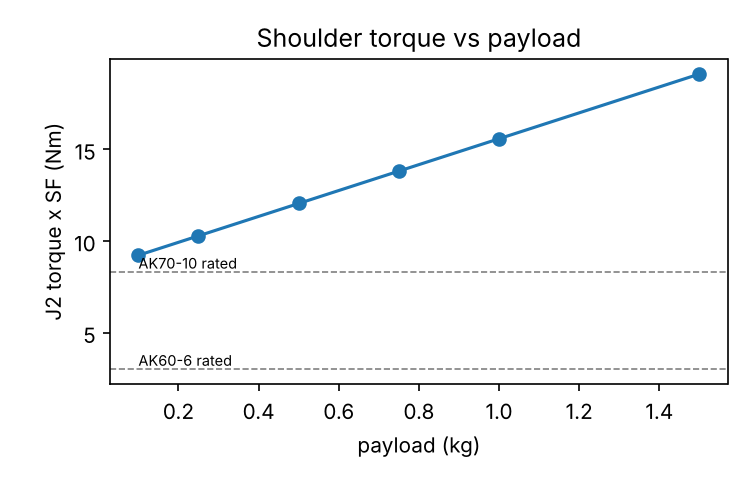
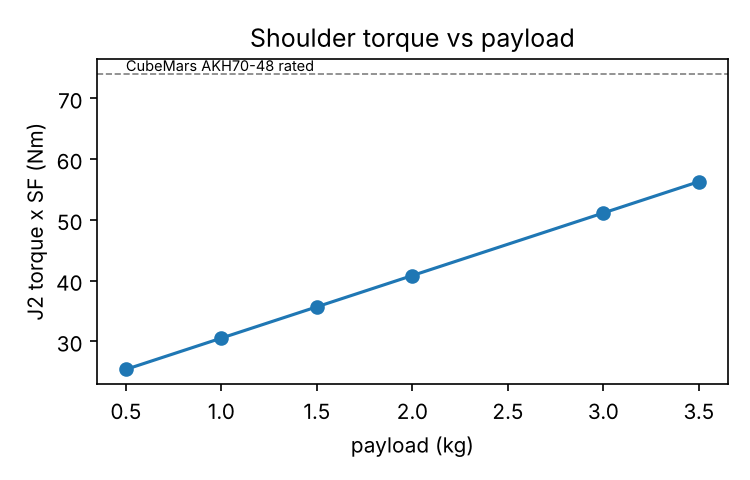
Scale the arm to 700 mm reach (xArm 7 class), 2 kg payload, redo actuator selection

diff --git a/analysis/run_analysis.py b/analysis/run_analysis.py
@@ -11,7 +11,7 @@ import matplotlib.pyplot as plt
 sys.path.insert(0, os.path.dirname(__file__))
 import kinematics as kin
 import dynamics as dyn
-from params import Q_MIN, Q_MAX, build_components
+from params import Q_MIN, Q_MAX, PAYLOAD, build_components
 from actuators import ACTUATORS, ASSUMED_BACKLASH_ARCMIN
 import error_budget as eb
 
@@ -19,12 +19,7 @@ ROOT = os.path.join(os.path.dirname(__file__), "..")
 IMG = os.path.join(ROOT, "docs", "img")
 os.makedirs(IMG, exist_ok=True)
 SF = 1.5
-MAX_BACKLASH = 12   # arcmin, for joints that move the tip (J1-J5)
-# Chosen by hand. J1/J2: the hollow-shaft AKH70-16 (dual 21-bit encoders with one on
-# the output side, big torque margin, 7 mm bore for cables). J3: the much lighter AK45-36 V3,
-# because the elbow actuator's weight loads the shoulder. The wrist is picked by the
-# search below (lightest module that is strong enough and low backlash).
-PREFERRED = {1: "CubeMars AKH70-16", 2: "CubeMars AKH70-16", 3: "CubeMars AK45-36 V3"}
+MAX_BACKLASH = 12   # arcmin, preferred for joints that move the tip (J2-J5)
 ALPHA = 5.0
 JOINTS = ["J1", "J2", "J3", "J4", "J5", "J6"]
 
@@ -48,17 +43,25 @@ def pick(need_rated, need_peak, max_backlash=None):
     return min(ok)[1] if ok else "none in table"
 
 
-def select_actuators(g, payload=0.5, iters=8):
-    """Pick actuators for J2..J5, feed their masses back into the model and
-    repeat until the choice stops changing (heavier motor -> more load)."""
-    choice = dict(PREFERRED)
+def select_actuators(g, payload=PAYLOAD, iters=8):
+    """Pick actuators for J2..J6, feed their masses back into the model and
+    repeat until the choice stops changing (heavier motor -> more load).
+    A part with a known backlash <= MAX_BACKLASH is preferred; if none is strong
+    enough, parts with unknown backlash are allowed (flagged in the results).
+    J1 uses the same part as J2 (its torque is not sized by this model)."""
+    choice = {}
     for _ in range(iters):
         mass = {j: ACTUATORS[c]["mass"] for j, c in choice.items() if c in ACTUATORS}
         comps = build_components(g, payload=payload, act_mass=mass)
         st, sd, _ = dyn.worst_case(n=4000, alpha=ALPHA, comps=comps, seed=7)
-        new = dict(PREFERRED)
-        for j in range(3, 6):    # J4..J6
-            new[j + 1] = pick(st[j] * SF, sd[j] * SF, MAX_BACKLASH if j < 5 else None)
+        new = {}
+        for j in range(1, 6):    # J2..J6
+            lim = MAX_BACKLASH if j < 5 else None
+            c = pick(st[j] * SF, sd[j] * SF, lim)
+            if c == "none in table":
+                c = pick(st[j] * SF, sd[j] * SF, None)
+            new[j + 1] = c
+        new[1] = new[2]
         if new == choice:
             break
         choice = new
@@ -76,7 +79,7 @@ def main():
                "approximate, see `analysis/actuators.py`.\n")
     out.append(f"- Geometry: d1={g.d1*1e3:.0f} mm, a2={g.a2*1e3:.0f} mm, d4={g.d4*1e3:.0f} mm, "
                f"d6={g.d6*1e3:.0f} mm  ->  max reach from shoulder {1e3*(g.a2+g.d4+g.d6):.0f} mm")
-    out.append(f"- Only modules with an integrated driver are considered; J1-J5 need a known backlash of at most {MAX_BACKLASH} arcmin")
+    out.append(f"- Only modules with an integrated driver are considered; a known backlash of at most {MAX_BACKLASH} arcmin is preferred (parts with unknown backlash only if nothing else is strong enough)")
     out.append(f"- Total moving mass in the model: {dyn.total_mass(comps):.2f} kg "
                f"(payload {[c.mass for c in comps if c.name=='payload'][0]} kg)\n")
 
@@ -128,7 +131,7 @@ def main():
     out.append("## Payload sweep (shoulder J2 and elbow J3, static, x SF)\n")
     out.append("| payload (kg) | J2 (Nm) | J3 (Nm) |")
     out.append("|---|---|---|")
-    pays = [0.1, 0.25, 0.5, 0.75, 1.0, 1.5]
+    pays = [0.5, 1.0, 1.5, 2.0, 3.0, 3.5]
     j2s = []
     for pay in pays:
         c = build_components(g, payload=pay, act_mass=act_mass)
@@ -138,9 +141,9 @@ def main():
     out.append("")
     plt.figure(figsize=(5, 3.2))
     plt.plot(pays, j2s, "o-")
-    for name, v in (("AK60-6 rated", 3.0), ("AK70-10 rated", 8.3)):
-        plt.axhline(v, ls="--", lw=0.8, color="gray")
-        plt.text(pays[0], v + 0.2, name, fontsize=7)
+    v = ACTUATORS[choice[2]]["rated"]
+    plt.axhline(v, ls="--", lw=0.8, color="gray")
+    plt.text(pays[0], v + 0.5, choice[2] + " rated", fontsize=7)
     plt.xlabel("payload (kg)"); plt.ylabel("J2 torque x SF (Nm)")
     plt.title("Shoulder torque vs payload"); plt.tight_layout()
     plt.savefig(os.path.join(IMG, "payload_sweep.png"), dpi=150); plt.close()

diff --git a/analysis/params.py b/analysis/params.py
@@ -12,10 +12,10 @@ G = 9.81
 
 @dataclass(frozen=True)
 class Geometry:
-    d1: float = 0.12    # base plate -> shoulder axis (J2)
-    a2: float = 0.20    # shoulder -> elbow (upper arm)
-    d4: float = 0.18    # elbow -> wrist centre (forearm)
-    d6: float = 0.10    # wrist centre -> flange / TCP
+    d1: float = 0.20    # base plate -> shoulder axis (J2)
+    a2: float = 0.29    # shoulder -> elbow (upper arm)
+    d4: float = 0.29    # elbow -> wrist centre (forearm)
+    d6: float = 0.12    # wrist centre -> flange / TCP
 
 
 # Joint limits (q as defined by the DH table in kinematics.py).
@@ -36,8 +36,12 @@ class Component:
 DEFAULT_ACT_MASS = {2: 0.52, 3: 0.29, 4: 0.082, 5: 0.082, 6: 0.057}
 
 
-def build_components(g: Geometry = Geometry(), payload: float = 0.5,
-                     tool: float = 0.2, structure_scale: float = 1.0,
+PAYLOAD = 2.0   # kg carried at the TCP
+TOOL = 0.5      # kg gripper / end effector
+
+
+def build_components(g: Geometry = Geometry(), payload: float = PAYLOAD,
+                     tool: float = TOOL, structure_scale: float = 1.0,
                      act_mass: dict = None) -> list:
     """Mass model. act_mass[j] = mass of the actuator that drives joint j.
     Default actuator masses are datasheet numbers from memory (verify).
@@ -48,10 +52,10 @@ def build_components(g: Geometry = Geometry(), payload: float = 0.5,
         # frame 1 rotates with J1 only: carries the J2 actuator body
         Component("J2 actuator", 1, (0, 0, 0), m[2]),
         # frame 2 (origin at elbow) carries upper arm + J3 actuator body
-        Component("upper arm structure", 2, (-g.a2 / 2, 0, 0), 0.12 * s),
+        Component("upper arm structure", 2, (-g.a2 / 2, 0, 0), 0.45 * s),
         Component("J3 actuator", 2, (0, 0, 0), m[3]),
         # frame 3 (origin at elbow, z along forearm) carries forearm + J4 body
-        Component("forearm structure", 3, (0, 0, g.d4 / 2), 0.10 * s),
+        Component("forearm structure", 3, (0, 0, g.d4 / 2), 0.35 * s),
         Component("J4 actuator", 3, (0, 0, 0.75 * g.d4), m[4]),
         # frame 4 (origin at wrist centre) carries J5 body
         Component("J5 actuator", 4, (0, 0, 0), m[5]),

diff --git a/tests/test_model.py b/tests/test_model.py
@@ -112,4 +112,3 @@ def test_backlash_error_stretched_pose():
     g = kin.GEO
     dist = g.a2 + g.d4 + g.d6          # shoulder axis to TCP, all in a line
     assert np.isclose(e[0, 1], 9 * eb.ARCMIN * dist * 1e3, rtol=1e-9)
-    assert np.isclose(e[0, 1], 1.2566, atol=1e-3)

diff --git a/cad/fusion_skeleton.py b/cad/fusion_skeleton.py
@@ -16,7 +16,7 @@ import traceback
 import adsk.core
 import adsk.fusion
 
-PARAMS_MM = {"d1": 120, "a2": 200, "d4": 180, "d6": 100}
+PARAMS_MM = {"d1": 200, "a2": 290, "d4": 290, "d6": 120}
 
 
 def run(context):

diff --git a/README.md b/README.md
@@ -24,33 +24,33 @@ I wanted one project that covers the whole chain: mechanical design, motor selec
 
 | | |
 |---|---|
-| Reach | 480 mm from the shoulder (xArm 7 is 700 mm, I went smaller on purpose, see below) |
-| Payload | 0.5 kg plus a 0.2 kg gripper |
+| Reach | 700 mm from the shoulder (xArm 7 class) |
+| Payload | 2 kg plus a 0.5 kg gripper |
 | Repeatability goal | ≲ 0.5 mm, helped by camera feedback |
-| J1, J2 | CubeMars AKH70-16 (hollow shaft, integrated driver, dual 21-bit encoders, ~12 arcmin) |
-| J3 | CubeMars AK45-36 V3 (lighter, same backlash, dual 16-bit encoders) |
-| Wrist (J4–J6) | CubeMars AK45-36 V3 (integrated driver, dual encoders, ~12 arcmin) |
+| J1, J2 | CubeMars AKH70-48 (hollow shaft, 48:1, integrated driver) |
+| J3 | CubeMars AKH70-16 (hollow shaft, 16:1, dual 21-bit encoders, ~12 arcmin) |
+| Wrist (J4–J6) | CubeMars AK45-36 V3 (integrated driver, dual 16-bit encoders, ~12 arcmin) |
 | Sensing | wrist camera + AprilTags on the workspace and tools |
 
-Why not 700 mm: the shoulder torque goes up 2–3x with that reach, which means heavier motors, which load the shoulder even more. A bench-top wet lab doesn't need it, and shorter is stiffer.
+I first sized the arm at 480 mm (shorter is stiffer and needs lighter motors), then moved to 700 mm to get a proper xArm 7-class workspace. The numbers below are for the 700 mm version.
 
 ## Current numbers
 
-Full tables and plots are in [`docs/results.md`](docs/results.md), generated by `analysis/run_analysis.py`. Summary for the 0.5 kg case (1.5x safety factor, 5 rad/s² acceleration). Only modules with an integrated driver are considered:
+Full tables and plots are in [`docs/results.md`](docs/results.md), generated by `analysis/run_analysis.py`. Summary for 2 kg payload + 0.5 kg gripper at 700 mm (1.5x safety factor, 5 rad/s² acceleration). Only modules with an integrated driver are considered:
 
 | Joint | needs rated | needs peak | pick | rated margin |
 |---|---|---|---|---|
-| J2 shoulder | 12.1 Nm | 15.8 Nm | AKH70-16 (26 / 78 Nm) | 2.2x |
-| J3 elbow | 5.4 Nm | 7.3 Nm | AK45-36 V3 (8 / 24 Nm) | 1.5x |
-| J4, J5 | 0.9 Nm | 1.2–1.3 Nm | AK45-36 V3 (8 / 24 Nm) | 9x |
+| J2 shoulder | 40.8 Nm | 61.2 Nm | AKH70-48 (74 / 222 Nm) | 1.8x |
+| J3 elbow | 19.5 Nm | 30.4 Nm | AKH70-16 (26 / 78 Nm) | 1.3x |
+| J4, J5 | 4.0 Nm | 6.1–6.6 Nm | AK45-36 V3 (8 / 24 Nm) | 2.0x |
 
-Why the AKH70-16 at the base and shoulder: output-side encoder, hollow 7 mm bore for cables, integrated driver, plenty of torque. It is heavy (879 g), and the elbow actuator's weight loads the shoulder directly, so the elbow gets the lighter AK45-36 V3. I first had the AKH70-16 on all three big joints: moving mass 3.7 kg, shoulder static torque 9.1 Nm. With the AK45-36 at the elbow it is 3.2 kg and 8.0 Nm. The wrist is now the biggest lever left: three 349 g modules at the tip weigh more than the whole payload. A lighter wrist (Dynamixel-class, 82 g) would bring the total to about 2.4 kg and the shoulder to 5 Nm, but I haven't found its backlash.
+Total moving mass in the model is 6.6 kg, dominated by the actuators (the AKH70-48 alone is 1.4 kg). The elbow margin is the thinnest one. Payload sweep (0.5 to 3.5 kg) is in the results file: at 3.5 kg the shoulder needs 56 Nm continuous, which the AKH70-48 still covers.
 
-Earlier I considered the AKE series (about 9 arcmin) but it is sold without a driver, so it needs a separate driver board per joint. Not worth the extra wiring for 3 arcmin.
+The AKH70-48's backlash is unknown (I haven't found a figure), so the error budget uses an assumed 15 arcmin for it. Wrist weight is the next lever: lighter wrist modules would cut the shoulder load noticeably.
 
 ## Backlash and tip error
 
-12 arcmin at the shoulder is about 1.7 mm at the tip with the arm stretched out. Adding all joints, the worst case is a few mm and the typical case about 1.5 mm (full range, see `docs/results.md`). That alone doesn't reach the 0.5 mm goal, so the plan is camera feedback for the last step. The 12 arcmin figures come from single retailer listings and still need to be checked against the datasheet.
+At 700 mm each joint's backlash costs more at the tip: with the assumed 15 arcmin at the shoulder, about 3 mm with the arm stretched out. Adding all joints, the worst case is about 8 mm and the typical case about 2.6 mm (full range, see `docs/results.md`). That is far from a 0.5 mm goal, so the plan relies on camera feedback for the last step, and output-side encoders matter.
 
 ## How I checked the model
 
@@ -70,7 +70,7 @@ The hand-calc test actually caught a bug in my first mass model (the tool frame 
 
 - Links are point masses: no rotational inertia, no Coriolis terms. J1 and J6 torques are therefore lower bounds and not sized yet.
 - Actuator numbers come from CubeMars catalogue pages and retailer listings (backlash and rated torque often from a single listing). Check the datasheets before ordering.
-- Link structure masses (0.12 and 0.10 kg) are guesses until the CAD exists.
+- Link structure masses (0.45 and 0.35 kg) are guesses until the CAD exists.
 - No table or self-collision check, so the workspace plot includes poses below the base plate.
 - Random search for the worst case, plus the obvious stretched pose and a local refinement. Not a proof of the global maximum.
 

diff --git a/docs/results.md b/docs/results.md
@@ -2,9 +2,9 @@
 
 Design assumptions come from `analysis/params.py`. Actuator numbers are approximate, see `analysis/actuators.py`.
 
-- Geometry: d1=120 mm, a2=200 mm, d4=180 mm, d6=100 mm  ->  max reach from shoulder 480 mm
-- Only modules with an integrated driver are considered; J1-J5 need a known backlash of at most 12 arcmin
-- Total moving mass in the model: 3.19 kg (payload 0.5 kg)
+- Geometry: d1=200 mm, a2=290 mm, d4=290 mm, d6=120 mm  ->  max reach from shoulder 700 mm
+- Only modules with an integrated driver are considered; a known backlash of at most 12 arcmin is preferred (parts with unknown backlash only if nothing else is strong enough)
+- Total moving mass in the model: 6.62 kg (payload 2.0 kg)
 
 ## Worst-case joint torque
 
@@ -12,11 +12,11 @@ Random search of 30 000 poses inside the joint limits plus the stretched-out pos
 
 | Joint | static (Nm) | static+dyn (Nm) | rated needed (Nm) | peak needed (Nm) | actuator | rated margin |
 |---|---|---|---|---|---|---|
-| J1 | 0.00 | 1.71 | 0.00 | 2.57 | CubeMars AKH70-16 | n/a (point-mass model) |
-| J2 | 8.03 | 10.52 | 12.05 | 15.78 | CubeMars AKH70-16 | 2.2x |
-| J3 | 3.61 | 4.85 | 5.41 | 7.28 | CubeMars AK45-36 V3 | 1.5x |
-| J4 | 0.59 | 0.79 | 0.88 | 1.19 | CubeMars AK45-36 V3 | 9.1x |
-| J5 | 0.59 | 0.85 | 0.88 | 1.28 | CubeMars AK45-36 V3 | 9.1x |
+| J1 | 0.00 | 9.20 | 0.00 | 13.80 | CubeMars AKH70-48 | n/a (point-mass model) |
+| J2 | 27.22 | 40.77 | 40.82 | 61.15 | CubeMars AKH70-48 | 1.8x |
+| J3 | 12.99 | 20.25 | 19.48 | 30.38 | CubeMars AKH70-16 | 1.3x |
+| J4 | 2.65 | 4.06 | 3.97 | 6.09 | CubeMars AK45-36 V3 | 2.0x |
+| J5 | 2.65 | 4.37 | 3.97 | 6.56 | CubeMars AK45-36 V3 | 2.0x |
 | J6 | 0.00 | 0.00 | 0.00 | 0.00 | CubeMars AK45-36 V3 | n/a (point-mass model) |
 
 J1 and J6 are listed from the point-mass model only: link rotational inertia is ignored, so their numbers are a lower bound. J1 also sees the whole arm's inertia about the vertical axis, so treat these two rows as a minimum, not a size.
@@ -29,14 +29,14 @@ Full backlash range of each joint turned into TCP displacement (mm) with the pos
 
 | Joint | actuator | backlash (arcmin) | stretched pose (mm) | worst pose (mm) | median (mm) |
 |---|---|---|---|---|---|
-| J1 | CubeMars AKH70-16 | 12 | 1.68 | 1.68 | 0.50 |
-| J2 | CubeMars AKH70-16 | 12 | 1.68 | 1.68 | 1.05 |
-| J3 | CubeMars AK45-36 V3 | 12 | 0.98 | 0.98 | 0.85 |
-| J4 | CubeMars AK45-36 V3 | 12 | 0.00 | 0.35 | 0.29 |
-| J5 | CubeMars AK45-36 V3 | 12 | 0.35 | 0.35 | 0.35 |
+| J1 | CubeMars AKH70-48 | 15* | 3.05 | 3.05 | 0.89 |
+| J2 | CubeMars AKH70-48 | 15* | 3.05 | 3.05 | 1.97 |
+| J3 | CubeMars AKH70-16 | 12 | 1.43 | 1.43 | 1.27 |
+| J4 | CubeMars AK45-36 V3 | 12 | 0.00 | 0.42 | 0.35 |
+| J5 | CubeMars AK45-36 V3 | 12 | 0.42 | 0.42 | 0.42 |
 | J6 | CubeMars AK45-36 V3 | 12 | 0.00 | 0.00 | 0.00 |
 
-All joints combined: worst case (all at the limit, same direction) 4.7 mm, root-sum-square worst 2.6 mm, median 1.5 mm (full range, so roughly half of that as +/- around the commanded position).
+All joints combined: worst case (all at the limit, same direction) 8.0 mm, root-sum-square worst 4.6 mm, median 2.6 mm (full range, so roughly half of that as +/- around the commanded position).
 
 Backlash alone does not meet a 0.5 mm goal, which is why the plan relies on camera feedback for the last step. Link deflection is not in this table yet.
 
@@ -44,28 +44,28 @@ Backlash alone does not meet a 0.5 mm goal, which is why the plan relies on came
 
 | payload (kg) | J2 (Nm) | J3 (Nm) |
 |---|---|---|
-| 0.1 | 9.23 | 3.76 |
-| 0.25 | 10.29 | 4.38 |
-| 0.5 | 12.05 | 5.41 |
-| 0.75 | 13.82 | 6.44 |
-| 1.0 | 15.58 | 7.47 |
-| 1.5 | 19.11 | 9.53 |
+| 0.5 | 25.37 | 10.43 |
+| 1.0 | 30.52 | 13.45 |
+| 1.5 | 35.67 | 16.47 |
+| 2.0 | 40.82 | 19.48 |
+| 3.0 | 51.13 | 25.52 |
+| 3.5 | 56.28 | 28.53 |
 
 ## Workspace and singularities
 
-- TCP height range: -245 .. 600 mm
-- Max horizontal reach (sampled): 480 mm
-- Max distance from base axis incl. all poses: 600 mm
+- TCP height range: -333 .. 900 mm
+- Max horizontal reach (sampled): 700 mm
+- Max distance from base axis incl. all poses: 900 mm
 Fraction of sampled poses within 10 degrees of a singularity (uniform in joint space, so the numbers say how much of the joint range is affected, not how much of a task space):
 
 - wrist (J5 near 0): 8.8 %
 - elbow (stretched / folded): 14.7 %
-- shoulder (wrist centre within 30 mm of J1 axis): 18.3 %
+- shoulder (wrist centre within 30 mm of J1 axis): 15.0 %
 
 ## Inverse kinematics check
 
 - 2000 random poses: max FK(IK(T)) - T error = 6.5e-14
-- Solutions inside joint limits per pose: min 1, mean 3.61, max 8
+- Solutions inside joint limits per pose: min 1, mean 3.49, max 8
 
 ![workspace](img/workspace.png)
 ![payload](img/payload_sweep.png)

diff --git a/docs/cad-v1-spec.md b/docs/cad-v1-spec.md
@@ -15,18 +15,18 @@ Sizes and weights are from the CubeMars catalogue; take the exact drawing from t
 
 | # | Component | Shape in V1 | Key dimensions / constraints |
 |---|---|---|---|
-| 0 | `base` | cylinder plate | Ø140 x 10 mm to start, bolt holes later. J1 actuator mounts vertically on it, cables go through its bore |
-| 1 | `J1_actuator` | STEP: CubeMars **AKH70-16** | Ø90 x 60.5 mm, 879 g, hollow bore 7 mm, axis +z |
-| 2 | `turret` | box / cylinder | joins the J1 output to the J2 axis, J2 axis at z = d1 = 120 mm above the base plate |
-| 3 | `J2_actuator` | STEP: **AKH70-16** | Ø90 x 60.5 mm, axis +y at the shoulder. This is the biggest module, mind the 90 mm diameter against d1 = 120 |
-| 4 | `upper_arm` | hollow tube / box | shoulder axis to elbow axis = a2 = 200 mm, centre to centre |
-| 5 | `J3_actuator` | STEP: CubeMars **AK45-36 V3** | Ø55 x 56.5 mm, 349 g, axis +y at the elbow |
-| 6 | `forearm` | hollow tube | elbow to wrist centre = d4 = 180 mm, J4 (roll) axis along it |
-| 7 | `J4_actuator` | STEP: **AK45-36 V3** | roll axis along the forearm |
+| 0 | `base` | cylinder plate | Ø180 x 12 mm to start, bolt holes later. J1 actuator mounts vertically on it, cables go through its bore |
+| 1 | `J1_actuator` | STEP: CubeMars **AKH70-48** | Ø90 x 81.5 mm, 1396 g, hollow bore 7 mm, axis +z |
+| 2 | `turret` | box / cylinder | joins the J1 output to the J2 axis, J2 axis at z = d1 = 200 mm above the base plate |
+| 3 | `J2_actuator` | STEP: **AKH70-48** | Ø90 x 81.5 mm, axis +y at the shoulder |
+| 4 | `upper_arm` | hollow tube / box | shoulder axis to elbow axis = a2 = 290 mm, centre to centre |
+| 5 | `J3_actuator` | STEP: CubeMars **AKH70-16** | Ø90 x 60.5 mm, 879 g, axis +y at the elbow |
+| 6 | `forearm` | hollow tube | elbow to wrist centre = d4 = 290 mm, J4 (roll) axis along it |
+| 7 | `J4_actuator` | STEP: CubeMars **AK45-36 V3** | Ø55 x 56.5 mm, 349 g, roll axis along the forearm |
 | 8 | `wrist` | small block | J5 and J6 axes meet at ONE point (wrist centre) |
 | 9 | `J5_actuator`, `J6_actuator` | STEP: **AK45-36 V3** | J5 axis +y, J6 axis +z at q = 0 |
-| 10 | `flange` | disc | face of the tool, TCP is d6 = 100 mm past the wrist centre on the J6 axis |
-| 11 | `tool_dummy` | block | 0.2 kg gripper stand-in, so the mass model matches |
+| 10 | `flange` | disc | face of the tool, TCP is d6 = 120 mm past the wrist centre on the J6 axis |
+| 11 | `tool_dummy` | block | 0.5 kg gripper stand-in, so the mass model matches (payload 2 kg on top) |
 
 All six modules have the driver inside and talk CAN, so there is one bus and one protocol for the whole arm.
 
@@ -41,19 +41,18 @@ All six modules have the driver inside and talk CAN, so there is one bus and one
 
 | Item | Model assumption (kg) | CAD (kg) |
 |---|---|---|
-| upper arm structure | 0.12 | |
-| forearm structure | 0.10 | |
-| J2 actuator (AKH70-16) | 0.879 | |
-| J3 actuator (AK45-36 V3) | 0.349 | |
-| J4 / J5 actuator (AK45-36 V3) | 0.349 each | |
-| J6 actuator (AK45-36 V3) | 0.349 | |
-| flange + gripper stand-in | 0.20 | |
+| upper arm structure | 0.45 | |
+| forearm structure | 0.35 | |
+| J2 actuator (AKH70-48) | 1.396 | |
+| J3 actuator (AKH70-16) | 0.879 | |
+| J4 / J5 / J6 actuator (AK45-36 V3) | 0.349 each | |
+| flange + gripper stand-in | 0.50 | |
 | turret, wrist block | not modelled yet | |
 
 The turret and the wrist block are missing from the mass model, so V1 will probably
 show a bit more load than the current numbers. That is expected and the reason for this step.
 
 ## Open questions to settle with the STEP files
-- Does a 90 mm module fit at the shoulder with d1 = 120 mm without hitting the base?
+- Does the 90 mm AKH70-48 fit at the shoulder with d1 = 200 mm without hitting the base?
 - Is the 7 mm bore enough for the power and CAN cables of the whole arm?
 - Voltage: check that all three module types can share one supply.

diff --git a/docs/skeleton.md b/docs/skeleton.md
@@ -7,12 +7,12 @@ one of them is wrong and I fix it before building more on top.
 
 | Name | Meaning | Value |
 |---|---|---|
-| d1 | base plate -> shoulder axis (J2) | 120 mm |
-| a2 | shoulder -> elbow (upper arm) | 200 mm |
-| d4 | elbow -> wrist centre (forearm) | 180 mm |
-| d6 | wrist centre -> flange / TCP | 100 mm |
+| d1 | base plate -> shoulder axis (J2) | 200 mm |
+| a2 | shoulder -> elbow (upper arm) | 290 mm |
+| d4 | elbow -> wrist centre (forearm) | 290 mm |
+| d6 | wrist centre -> flange / TCP | 120 mm |
 
-Max reach from the shoulder: a2 + d4 + d6 = 480 mm.
+Max reach from the shoulder: a2 + d4 + d6 = 700 mm (xArm 7 class).
 
 ## Zero pose and joint axes
 
@@ -42,7 +42,7 @@ J4, J5, J6 meet at one point (wrist centre). That is what gives the closed-form 
 
 Frame 6 sits at the TCP (it already includes d6).
 
-Stretched-out reference pose: q = [0, 0, 90°, 0, 0, 0] puts the TCP at x = 480 mm, z = 120 mm, tool horizontal.
+Stretched-out reference pose: q = [0, 0, 90°, 0, 0, 0] puts the TCP at x = 700 mm, z = 200 mm, tool horizontal.
 
 ## Joint limits used in the analysis (assumed)
 
